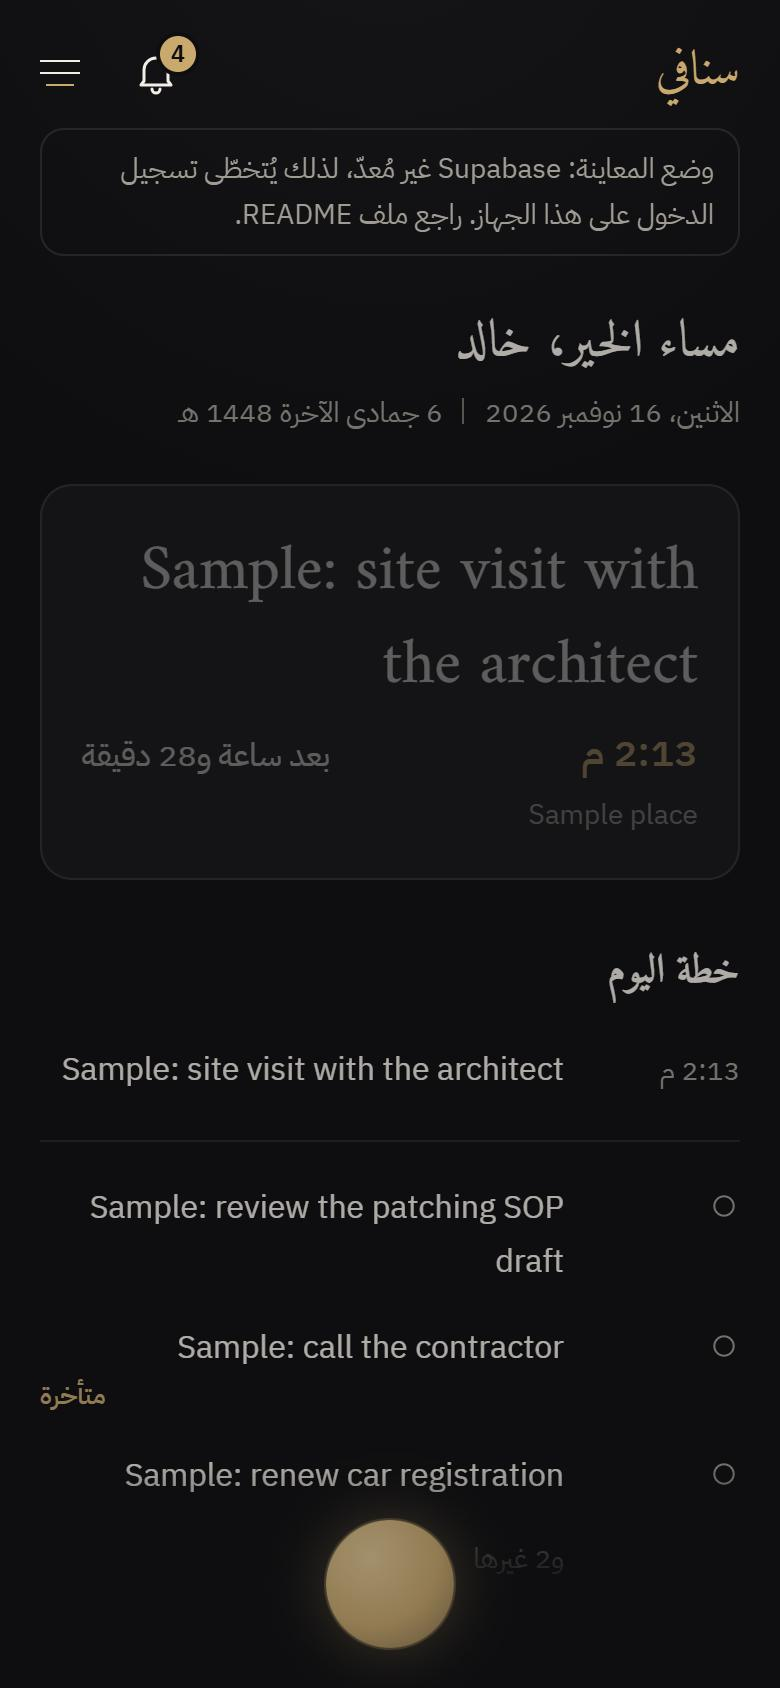
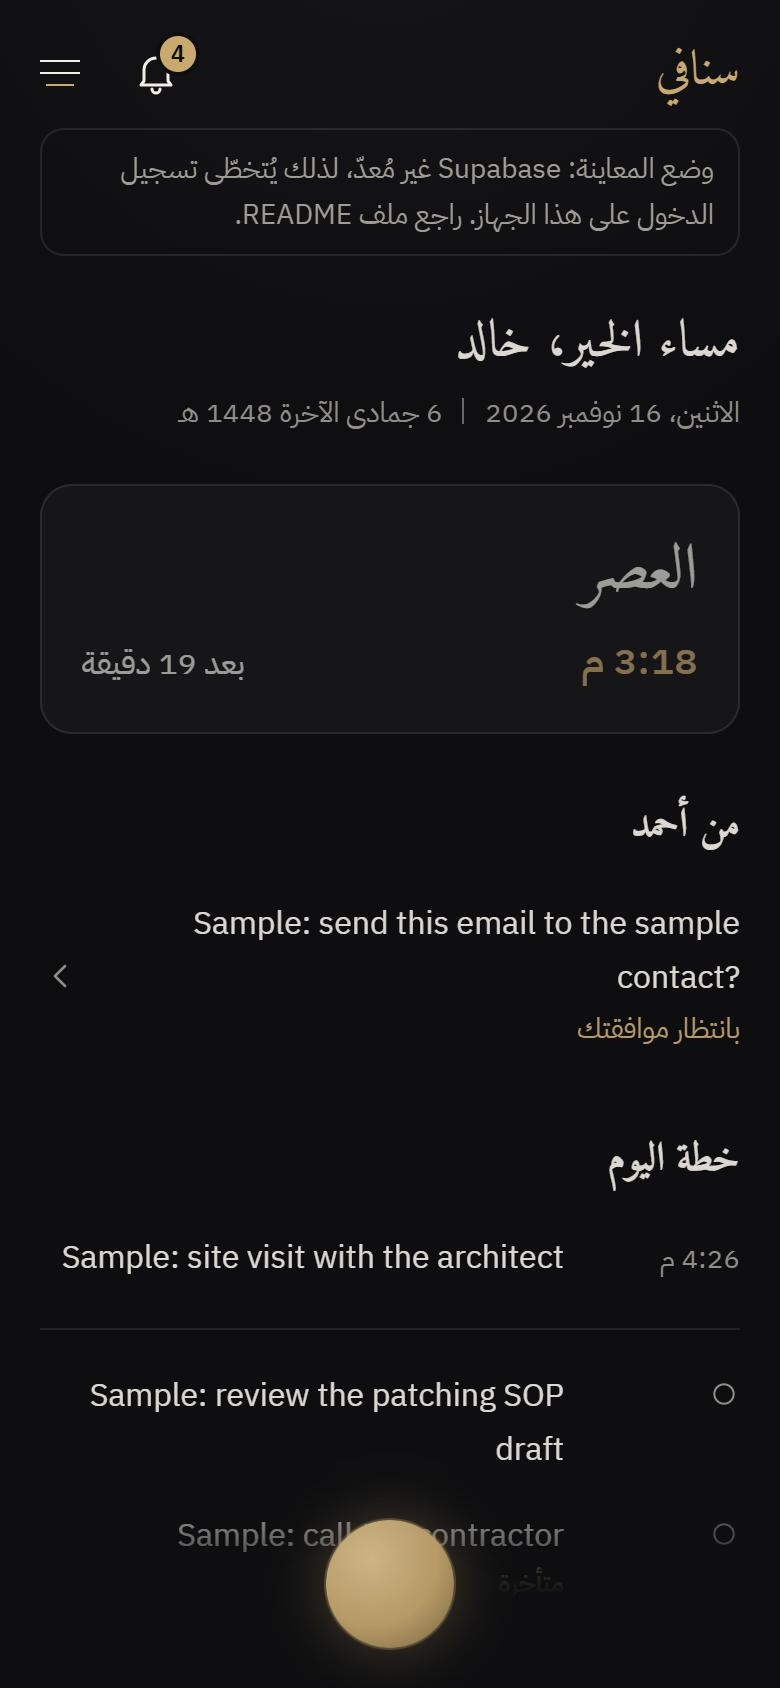
Snafi UI job: Ahmad's message above the plan, Arabic due-label and orb clearance fixed
Khalid's order after the screenshots: greeting, Now card, Ahmad's message, today's plan.
The due label keeps to its own task in both languages. The orb clearance is now a named
.orb-clear rule in globals.css, with a test, instead of an arbitrary class.
Re-measured in the browser: padding 144px and 0 elements over an edge at 360 and 390 in both
languages; the last plan line sits 137-138px clear of the orb. 376 web tests pass.

diff --git a/apps/snafi-web/src/app/(app)/today/TodayView.tsx b/apps/snafi-web/src/app/(app)/today/TodayView.tsx
@@ -15,8 +15,9 @@ export const PLAN_EVENTS = 5;
 export const PLAN_TASKS = 3;
 
 /**
- * The Today screen: the greeting with both dates, the Now card, today's plan, Ahmad's one message
- * and the orb. Nothing else (AC-12, AC-13). Pure view: all data comes in through props.
+ * The Today screen: the greeting with both dates, the Now card, Ahmad's one message, today's plan
+ * and the orb. Nothing else (AC-12, AC-13). Ahmad's message comes before the plan so a waiting
+ * approval is on the first screen. Pure view: all data comes in through props.
  */
 export function TodayView({ lang, hour, today, now }: Props) {
   const t = messages(lang);
@@ -33,7 +34,8 @@ export function TodayView({ lang, hour, today, now }: Props) {
   const quiet = "t-small text-muted";
 
   return (
-    <div className="pt-4 pb-[calc(7rem+env(safe-area-inset-bottom))]" data-screen="today">
+    // orb-clear (globals.css) keeps the last line of the plan clear of the orb and its glow.
+    <div className="orb-clear pt-4" data-screen="today">
       <h1 className="t-title wrap">{t.greeting[greetingFor(hour)]}{comma}{t.ownerName}</h1>
       <p className={`${quiet} mt-1`} data-testid="today-dates">
         <span>{today.gregorianDate}</span><span className="sr-only">, </span>
@@ -43,6 +45,30 @@ export function TodayView({ lang, hour, today, now }: Props) {
       {today.sample && <p className={`${quiet} mt-1`} data-testid="sample-note">{t.placeholderNote}</p>}
 
       <NowCard lang={lang} items={today.now} serverNow={now.toISOString()} />
+
+      <section aria-labelledby="ahmad-title" data-testid="ahmad">
+        <h2 id="ahmad-title" className="t-heading mt-8 mb-3">{t.ahmadCards}</h2>
+        {message ? (
+          <Link href={`/inbox?open=${encodeURIComponent(message.id)}`} data-testid="ahmad-message" data-kind={message.kind}
+            aria-label={`${message.title}. ${second}. ${t.ahmad.openInInbox}`}
+            className="row-press -mx-2 grid min-h-11 items-center gap-x-2 px-2 py-2" style={{ gridTemplateColumns: "minmax(0, 1fr) auto" }}>
+            <span className="min-w-0">
+              <span className="t-body wrap clamp-2" data-slot="message-title"><bdi>{message.title}</bdi></span>
+              {message.kind === "approval" ? (
+                <span className="t-small block text-gold-ink">{second}</span>
+              ) : (
+                <span className={`${quiet} flex gap-2`}>
+                  <span>{t.inbox.kind[message.kind]}</span>
+                  <span className="nums"><bdi>{inboxTime(message.createdAt, lang, now, tz)}</bdi></span>
+                </span>
+              )}
+            </span>
+            <ChevronForwardIcon className="flex-none text-muted" />
+          </Link>
+        ) : (
+          <p className={quiet} data-testid="ahmad-empty">{t.noCards}</p>
+        )}
+      </section>
 
       <section aria-labelledby="plan-title" data-testid="plan">
         <h2 id="plan-title" className="t-heading mt-8 mb-3">{t.plan.title}</h2>
@@ -71,8 +97,9 @@ export function TodayView({ lang, hour, today, now }: Props) {
                 <span className="pt-1 text-muted"><TaskCircleIcon /></span>
                 <span className="min-w-0">
                   <span className="t-body wrap clamp-2" data-slot="task-title"><bdi>{task.title}</bdi></span>
+                  {/* The due line sits under its task's own text, never at the far edge of the column (Arabic at 360/390). */}
                   {due && (
-                    <span className={`t-caption wrap block text-end ${task.overdue ? "font-medium text-gold-ink" : "text-muted"}`}><bdi>{due}</bdi></span>
+                    <span className={`t-caption wrap block text-start ${task.overdue ? "font-medium text-gold-ink" : "text-muted"}`}><bdi>{due}</bdi></span>
                   )}
                 </span>
               </li>
@@ -85,30 +112,6 @@ export function TodayView({ lang, hour, today, now }: Props) {
             <li className="plan-row"><span /><span className={quiet}>{today.todoist === "ok" ? t.plan.noTasks : t.plan.tasksUnavailable}</span></li>
           )}
         </ul>
-      </section>
-
-      <section aria-labelledby="ahmad-title" data-testid="ahmad">
-        <h2 id="ahmad-title" className="t-heading mt-8 mb-3">{t.ahmadCards}</h2>
-        {message ? (
-          <Link href={`/inbox?open=${encodeURIComponent(message.id)}`} data-testid="ahmad-message" data-kind={message.kind}
-            aria-label={`${message.title}. ${second}. ${t.ahmad.openInInbox}`}
-            className="row-press -mx-2 grid min-h-11 items-center gap-x-2 px-2 py-2" style={{ gridTemplateColumns: "minmax(0, 1fr) auto" }}>
-            <span className="min-w-0">
-              <span className="t-body wrap clamp-2" data-slot="message-title"><bdi>{message.title}</bdi></span>
-              {message.kind === "approval" ? (
-                <span className="t-small block text-gold-ink">{second}</span>
-              ) : (
-                <span className={`${quiet} flex gap-2`}>
-                  <span>{t.inbox.kind[message.kind]}</span>
-                  <span className="nums"><bdi>{inboxTime(message.createdAt, lang, now, tz)}</bdi></span>
-                </span>
-              )}
-            </span>
-            <ChevronForwardIcon className="flex-none text-muted" />
-          </Link>
-        ) : (
-          <p className={quiet} data-testid="ahmad-empty">{t.noCards}</p>
-        )}
       </section>
 
       <div className="orb-dock">

diff --git a/apps/snafi-web/tests/ui-today.test.tsx b/apps/snafi-web/tests/ui-today.test.tsx
@@ -45,21 +45,31 @@ afterEach(() => {
 });
 
 describe("AC-12: what Today shows", () => {
-  it("shows the greeting with both dates, the Now card, the plan, Ahmad's message and the orb, in Khalid's order", async () => {
+  it("shows the greeting with both dates, the Now card, Ahmad's message, the plan and the orb, in Khalid's order", async () => {
     draw(await live({ ...FEED, nextEvent: event(30) }, [], [card(1)]));
     const h1 = screen.getByRole("heading", { level: 1 });
     expect(h1).toHaveTextContent("Good morning, Khalid");
     expect(screen.getByTestId("today-dates")).toHaveTextContent("Saturday, 14 November 2026");
     expect(screen.getByTestId("today-dates")).toHaveTextContent("1448");
-    const parts = [h1, screen.getByTestId("now-card"), screen.getByTestId("plan"), screen.getByTestId("ahmad"),
+    // Ahmad's message comes before the plan, so a waiting approval is on the first screen.
+    const parts = [h1, screen.getByTestId("now-card"), screen.getByTestId("ahmad"), screen.getByTestId("plan"),
       screen.getByRole("link", { name: "Talk to Ahmad" })];
     for (let i = 1; i < parts.length; i++) {
       expect(parts[i - 1].compareDocumentPosition(parts[i]) & Node.DOCUMENT_POSITION_FOLLOWING, `part ${i}`).toBeTruthy();
     }
     expect(screen.getByRole("link", { name: "Talk to Ahmad" })).toHaveAttribute("href", "/chat");
-    // One h1 and two h2: the plan and Ahmad. Nothing else has a heading.
-    expect(screen.getAllByRole("heading").map((h) => h.textContent)).toEqual([h1.textContent, "Today's plan", "From Ahmad"]);
+    // One h1 and two h2: Ahmad and the plan. Nothing else has a heading.
+    expect(screen.getAllByRole("heading").map((h) => h.textContent)).toEqual([h1.textContent, "From Ahmad", "Today's plan"]);
     expect(screen.queryByTestId("sample-note")).toBeNull();
+  });
+
+  it("leaves the foot of the page clear of the orb and its glow", async () => {
+    const { container } = draw(await live());
+    const page = container.querySelector<HTMLElement>("[data-screen='today']")!;
+    // The spacing is the named .orb-clear rule in globals.css (checked there); jsdom applies no
+    // stylesheet, so only a browser measurement proves the last line really clears the orb.
+    expect(page.className.split(/\s+/)).toContain("orb-clear");
+    expect(page.className).not.toMatch(/pb-\[/);
   });
 });
 
@@ -215,6 +225,20 @@ describe("AC-16 (with Q3): today's plan", () => {
   it("an overdue task says Overdue in words", async () => {
     draw(await withPlan(0, 2));
     expect(screen.getByTestId("plan-tasks").querySelector("[data-overdue='true']")).toHaveTextContent("Overdue");
+  });
+
+  it("keeps the due line with its own task, not at the far edge of the column, in both languages", async () => {
+    for (const lang of ["en", "ar"] as const) {
+      const view = draw(await withPlan(0, 2), lang);
+      const row = screen.getByTestId("plan-tasks").querySelector("[data-overdue='true']")!;
+      const title = row.querySelector("[data-slot='task-title']")!;
+      const dueLine = [...row.querySelectorAll("span")].find((span) => span.className.includes("t-caption"))!;
+      // Same container as the task's title, and aligned to the text, not to the opposite edge.
+      expect(dueLine.parentElement, lang).toBe(title.parentElement);
+      expect(dueLine.className, lang).toContain("text-start");
+      expect(dueLine.className, lang).not.toContain("text-end");
+      view.unmount();
+    }
   });
 
   it("shows a short neutral line, not an error, with no events or no tasks", async () => {

diff --git a/apps/snafi-web/tests/ui-overflow.test.tsx b/apps/snafi-web/tests/ui-overflow.test.tsx
@@ -10,7 +10,7 @@
  * Real overflow (AC-25: scrollWidth equals the viewport width) is measured in a browser,
  * separately, per page, width and language; real phones are checked by Khalid.
  */
-import { readFileSync } from "node:fs";
+import { readdirSync, readFileSync } from "node:fs";
 import { resolve } from "node:path";
 import { act, fireEvent, render, within } from "@testing-library/react";
 import { describe, expect, it, vi } from "vitest";
@@ -176,6 +176,36 @@ describe("globals.css: the rules the guards rest on", () => {
     expect(physical).toHaveLength(1);
     expect(physical[0]).toContain(".gutter {");
     expect(physical[0]).toContain("env(safe-area-inset-left)");
+  });
+
+  /**
+   * Spacing that keeps a page off the orb lives in a named rule, not in an arbitrary pb-[…] class.
+   * An arbitrary class only exists if Tailwind's scanner emitted it, and nothing in this suite can
+   * see whether it did: jsdom applies no stylesheet, so a class that generates no CSS still reads
+   * back from className. A named rule is in globals.css, where `rule()` can read it. The three
+   * arbitrary values with a CSS function inside are the ones already measured in a browser
+   * (MEASUREMENTS_ui_inbox.md); a new one must be a named rule here instead, or be measured and
+   * added to this list on purpose. The real proof of the clearance is still a browser measurement.
+   */
+  it("AC-12/AC-27: the orb clearance is a named rule, and no new arbitrary class hides a CSS function", () => {
+    expect(rule("orb-clear")).toContain("padding-block-end: calc(9rem + env(safe-area-inset-bottom))");
+    const today = readFileSync(resolve(process.cwd(), "src/app/(app)/today/TodayView.tsx"), "utf8");
+    expect(today).toContain('className="orb-clear pt-4"');
+    expect(today).not.toMatch(/pb-\[/);
+
+    const MEASURED = ["pb-[max(env(safe-area-inset-bottom),12px)]", "w-[calc(100%+1rem)]"];
+    const files = readdirSync(resolve(process.cwd(), "src"), { recursive: true, encoding: "utf8" })
+      .filter((name) => name.endsWith(".tsx") || name.endsWith(".ts"));
+    const found = new Set<string>();
+    for (const name of files) {
+      const source = readFileSync(resolve(process.cwd(), "src", name), "utf8");
+      for (const m of source.matchAll(/class[A-Za-z]*=["'`]([^"'`]*)["'`]/g)) {
+        for (const token of m[1].split(/\s+/).filter(Boolean)) {
+          if (/-\[[^\]]*\w\(/.test(token) && !MEASURED.includes(token)) found.add(`${name}: ${token}`);
+        }
+      }
+    }
+    expect([...found]).toEqual([]);
   });
 
   it("AC-25/A10: the page may be pinch-zoomed (no maximum-scale, no user-scalable=no)", () => {

diff --git a/apps/snafi-web/src/app/globals.css b/apps/snafi-web/src/app/globals.css
@@ -296,6 +296,9 @@ body[data-daypart="night"] { --tone: var(--tone-night); }
 
   /* Today: the plan grid, the orb's place and the scrim under it. */
   .plan-row { display: grid; grid-template-columns: 4.75rem minmax(0, 1fr); column-gap: 12px; padding-block: 8px; }
+  /* The foot of a page with the orb: clear of the orb (64px), its dock (20px) and its glow (~20px).
+     A named rule, not an arbitrary pb-[…] class, so it cannot go missing when the stylesheet is built. */
+  .orb-clear { padding-block-end: calc(9rem + env(safe-area-inset-bottom)); }
   .orb-dock { position: fixed; inset-inline: 0; inset-block-end: 0; z-index: 30; display: flex; justify-content: center;
     padding-block-end: max(env(safe-area-inset-bottom), 20px); pointer-events: none; }
   .orb-dock::before { content: ""; position: absolute; inset-inline: 0; inset-block-end: 0; block-size: 112px; z-index: -1;

diff --git a/apps/snafi-web/docs/MEASUREMENTS_ui_inbox.md b/apps/snafi-web/docs/MEASUREMENTS_ui_inbox.md
@@ -54,12 +54,35 @@ the real app. All content is sample data.
 - Screen readers, measured contrast, and measured 44 px targets (read from the CSS, not measured).
 - Light theme (the shots are dark), and the look itself, which is Khalid's judgement.
 
+## Second round, Nov 16: after Khalid's swap and the two Arabic tidies
+
+Khalid asked for Ahmad's message above the plan, for "متأخرة" to stay with its task, and for the
+foot of the plan to clear the orb. Re-measured on a restarted preview:
+
+| Check | 390 EN | 390 AR | 360 EN | 360 AR |
+| --- | --- | --- | --- | --- |
+| Today scroll width / elements over an edge | 390 / 0 | 390 / 0 | 360 / 0 | 360 / 0 |
+| Orb clearance (`padding-bottom` on the page) | 144 px | 144 px | 144 px | 144 px |
+| Gap between the last plan line and the orb's top | 138 px | 137 px | — | — |
+
+- The order is right: "From Ahmad" with the waiting approval now sits directly under the Now card,
+  on the first screen at 390 px (`screenshots/390-today-en.jpg`, `390-today-ar.jpg`).
+- "Overdue" / "متأخرة" now sits under its own task in both languages, not at the opposite edge.
+- The foot of the plan is clear of the orb and its glow (`390-today-en-bottom.jpg`,
+  `390-today-ar-bottom.jpg`).
+
+**A correction to my own earlier finding.** I reported that the Today page's bottom padding
+"generates no CSS at all". That was wrong, and Agent 14 was right to push back: the class was in
+the built stylesheet all along, and the 0 px I measured came from a **stale cached stylesheet** in
+the preview tab — the dev server had rewritten the same chunk file name with new content. Forcing
+the browser to re-fetch the stylesheet gives 144 px. The padding is now a named `.orb-clear` rule
+in `globals.css` anyway, which the test suite can check and which cannot go missing silently.
+The lesson for later measuring: re-fetch the stylesheet (or restart the preview and hard-reload)
+before trusting a computed style.
+
 ## Two cosmetic things worth Khalid's eye
 
-1. **Ahmad's message sits below the first screen on Today.** With the plan above it (Khalid's
-   order), a waiting approval is not visible until he scrolls, as `390-today-en.jpg` and
-   `390-today-en-bottom.jpg` show together. Agent 17 had proposed the message above the plan for
-   this reason. Khalid can swap them.
-2. **In Arabic, "متأخرة" (Overdue) wraps onto its own line at the far edge** instead of sitting
-   under its task, and "+2 more" sits close to the orb's glow at the foot of the plan. Neither
-   overflows; both are small layout tidies.
+1. ~~Ahmad's message sits below the first screen on Today.~~ **Fixed on Nov 16** at Khalid's
+   instruction: the message is now above the plan.
+2. ~~In Arabic, "متأخرة" wraps onto its own line at the far edge, and "+2 more" sits close to the
+   orb's glow.~~ **Both fixed on Nov 16** and re-measured above.
